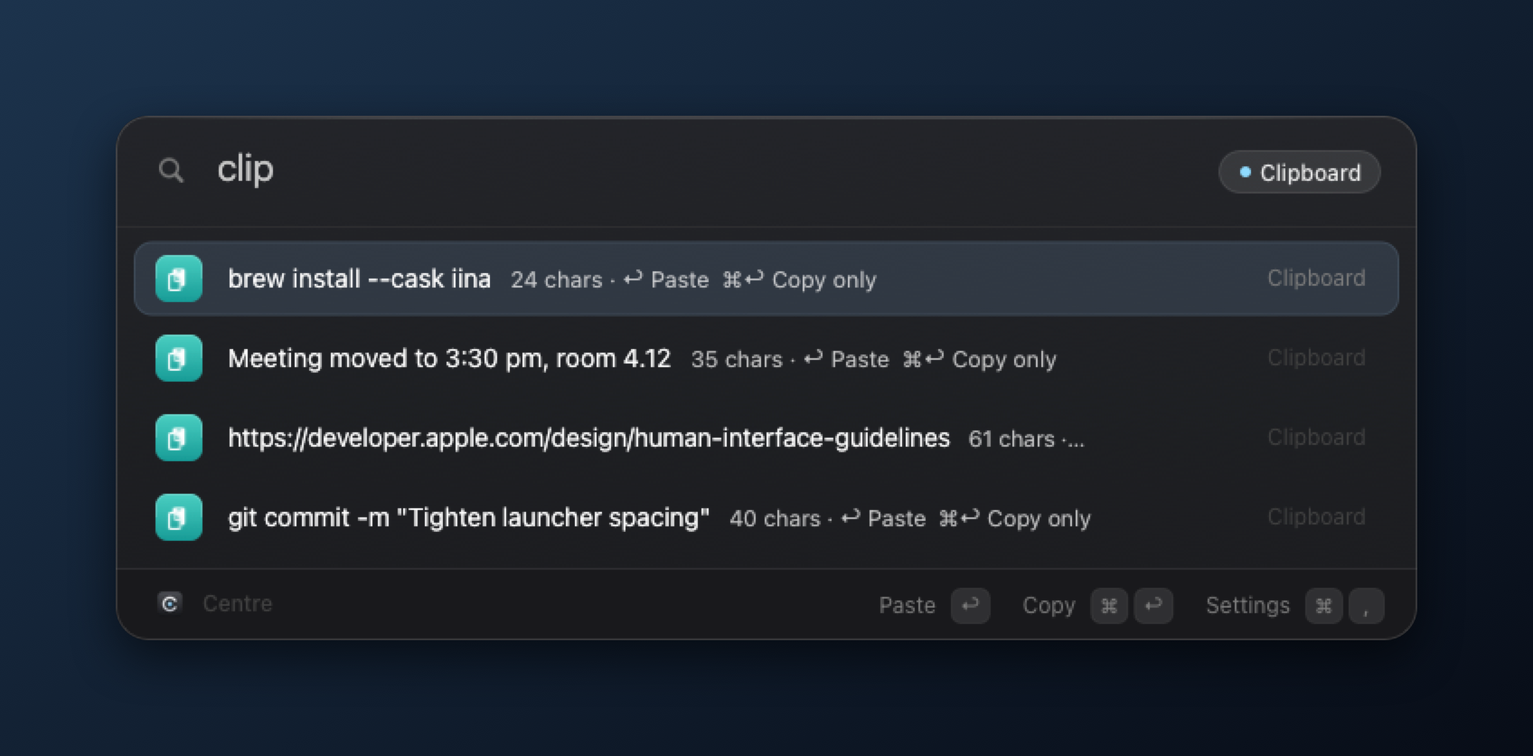
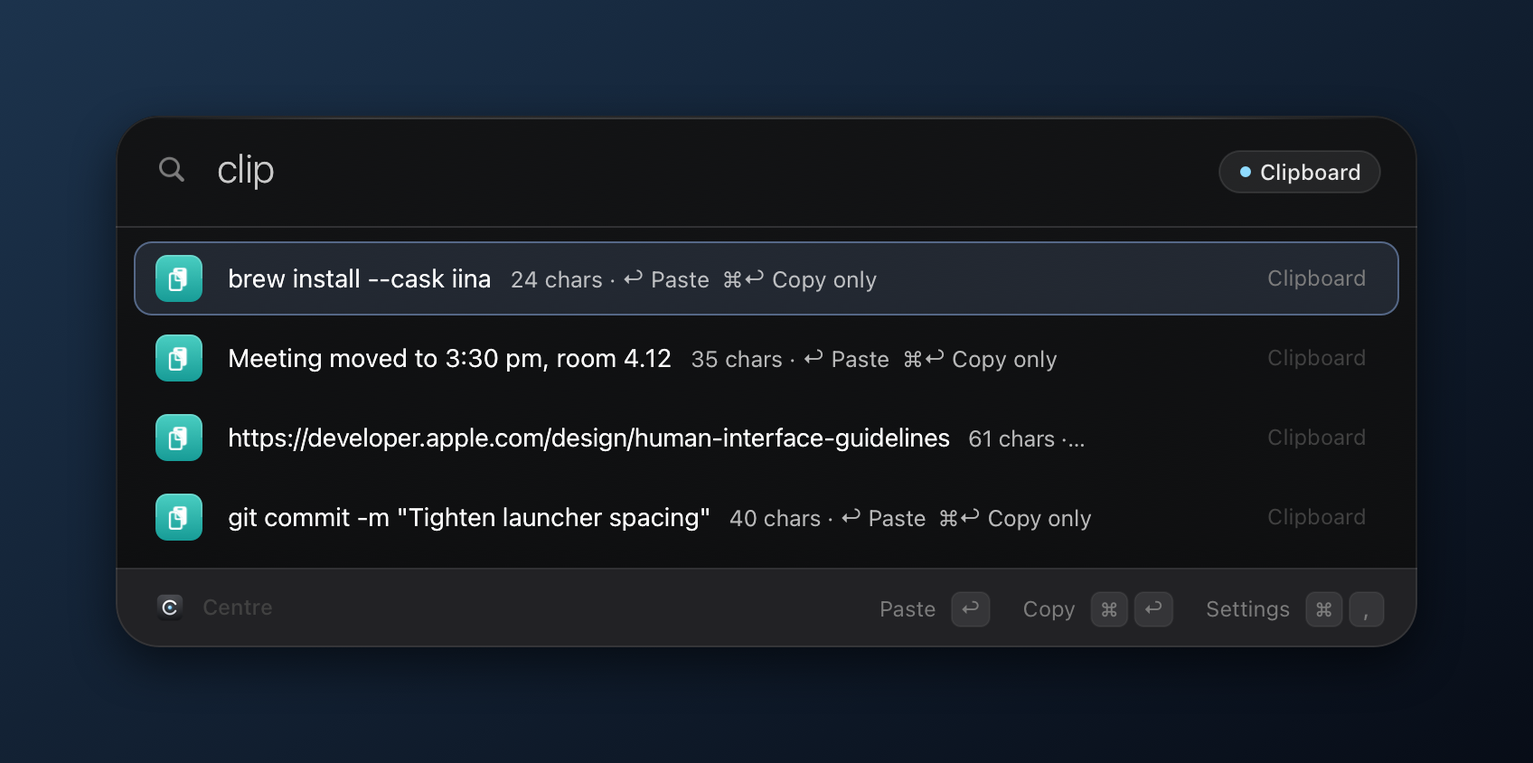
Build agent, fresh screenshots, shorter README
- Build agent: a LaunchAgent (the Centre binary in --agent mode) runs build, restart,
  test, shots, snap, status, log, crash and trace jobs from .agent/inbox
- Centre picks up builds made elsewhere once its panel is closed; one build at a time
- Lifecycle trace in .agent/trace.log
- Screenshot runs no longer collide with the running app or capture real context
- README rewritten and re-shot (dark only); temporary renders removed

Claude-Session: https://claude.ai/code/session_018D9cJFZXgMvcC43rK4RLZH

diff --git a/Sources/App.m b/Sources/App.m
@@ -392,9 +392,20 @@ static OSStatus hotKeyHandler(EventHandlerCallRef next, EventRef evt, void *ud) 
     return !b || [s compare:b] == NSOrderedDescending;   // a missing binary always counts as out of date
 }
 - (void)rebuild { [self rebuildQuietly:NO]; }
+// A build installed after this process started (by the agent, or by Terminal). It must have settled: the build
+// script signs the binary just after installing it, and holds its lock until then.
+- (BOOL)installedBuildIsNewer {
+    static NSDate *launched; static dispatch_once_t once;
+    NSString *bin = [NSBundle mainBundle].executablePath, *lock = [self.sourceDir stringByAppendingPathComponent:@".agent/build.lock"];
+    NSDate *now = [[[NSFileManager defaultManager] attributesOfItemAtPath:bin error:nil] fileModificationDate];
+    dispatch_once(&once, ^{ launched = now; });
+    if (!now || !launched || [now compare:launched] != NSOrderedDescending) return NO;
+    return -[now timeIntervalSinceNow] > 3 && ![[NSFileManager defaultManager] fileExistsAtPath:lock];
+}
 // Hand over to the fresh binary: a helper waits until this process has really exited, then opens the new build
 // (opening earlier would just wake the dying copy, or the new one would defer to it and quit).
 - (void)relaunch {
+    [self trace:@"relaunching into the new build"];
     self.relaunchPending = NO;
     [self saveClipHandoff];
     NSTask *t = [NSTask new]; t.launchPath = @"/bin/sh";
@@ -411,8 +422,11 @@ static OSStatus hotKeyHandler(EventHandlerCallRef next, EventRef evt, void *ud) 
     if (self.rebuilding || ![[NSFileManager defaultManager] fileExistsAtPath:[dir stringByAppendingPathComponent:@"centre"]]) return;
     self.rebuilding = YES;
     NSDate *src = [self sourceDate];
-    runShell([NSString stringWithFormat:@"cd %@ && chmod +x centre && CENTRE_NO_LAUNCH=1 ./centre build 2>&1", shellQuote(dir)], ^(NSString *out) {
-        if ([out containsString:@"Built "] && ![out containsString:@"error:"]) {
+    [self trace:@"rebuilding"];
+    runShell([NSString stringWithFormat:@"cd %@ && chmod +x centre && CENTRE_NO_LAUNCH=1 ./centre 2>&1", shellQuote(dir)], ^(NSString *out) {
+        NSString *lastLine = [[out stringByTrimmingCharactersInSet:[NSCharacterSet whitespaceAndNewlineCharacterSet]] componentsSeparatedByString:@"\n"].lastObject;
+        [self trace:[@"rebuild finished: " stringByAppendingString:lastLine ?: @""]];
+        if (([out containsString:@"Built "] && ![out containsString:@"error:"]) || [self installedBuildIsNewer]) {   // or the agent built it first
             if (self.panel.visible || self.settings.window.visible) { self.relaunchPending = YES; return; }   // finish when you're done
             [self relaunch];
             return;
@@ -448,8 +462,21 @@ static OSStatus hotKeyHandler(EventHandlerCallRef next, EventRef evt, void *ud) 
 }
 
 #pragma mark Lifecycle
+// Lifecycle trace for debugging (.agent/trace.log next to the app; the agent's "trace" job prints it).
+- (void)trace:(NSString *)what {
+    if (self.snapshotDir) return;
+    NSString *dir = [self.sourceDir stringByAppendingPathComponent:@".agent"], *p = [dir stringByAppendingPathComponent:@"trace.log"];
+    [[NSFileManager defaultManager] createDirectoryAtPath:dir withIntermediateDirectories:YES attributes:nil error:nil];
+    NSDateFormatter *f = [NSDateFormatter new]; f.dateFormat = @"MM-dd HH:mm:ss";
+    NSString *line = [NSString stringWithFormat:@"%@  pid %d  %@\n", [f stringFromDate:[NSDate date]], getpid(), what];
+    NSFileHandle *h = [NSFileHandle fileHandleForWritingAtPath:p];
+    if (!h) { [line writeToFile:p atomically:NO encoding:NSUTF8StringEncoding error:nil]; return; }
+    if ([h seekToEndOfFile] > 200000) { [h truncateFileAtOffset:0]; }
+    [h writeData:[line dataUsingEncoding:NSUTF8StringEncoding]]; [h closeFile];
+}
 - (void)applicationDidFinishLaunching:(NSNotification *)n {
     if (self.snapshotDir) { [self runSnapshots]; return; }
+    [self trace:[NSString stringWithFormat:@"launched (sources newer: %@)", [self sourceIsNewer] ? @"yes" : @"no"]];
     if ([self sourceIsNewer]) { [self rebuild]; return; }          // a failed build falls back to -startNormally
     [self startNormally];
 }
@@ -457,6 +484,8 @@ static OSStatus hotKeyHandler(EventHandlerCallRef next, EventRef evt, void *ud) 
 // with a Centre that has no panel, no shortcut and no file watcher.
 - (void)startNormally {
     if (self.panel) return;
+    [self installedBuildIsNewer];                 // remember which build this process is
+    [self trace:@"running"];
     [[NSDistributedNotificationCenter defaultCenter] addObserverForName:@"com.y.centre.show" object:nil queue:[NSOperationQueue mainQueue]
         usingBlock:^(NSNotification *note) { [self show]; }];
     [NSApp setActivationPolicy:NSApplicationActivationPolicyAccessory];
@@ -485,6 +514,7 @@ static OSStatus hotKeyHandler(EventHandlerCallRef next, EventRef evt, void *ud) 
     // Auto-rebuild: when anything in Sources/ changes, recompile and relaunch (only while the panel is hidden).
     [NSTimer scheduledTimerWithTimeInterval:4 repeats:YES block:^(NSTimer *t) {
         if (self.relaunchPending && !self.panel.visible && !self.settings.window.visible) { [self relaunch]; return; }
+        if (!self.rebuilding && !self.relaunchPending && [self installedBuildIsNewer]) { self.relaunchPending = YES; return; }   // the agent built it
         if (self.rebuilding || self.panel.visible || self.settings.window.visible || ![self sourceIsNewer]) return;
         NSDate *src = [self sourceDate];
         if (self.failedSource && src && [src isEqualToDate:self.failedSource]) return;   // same broken source: wait for the next save
@@ -502,6 +532,7 @@ static OSStatus hotKeyHandler(EventHandlerCallRef next, EventRef evt, void *ud) 
 }
 - (BOOL)applicationShouldHandleReopen:(NSApplication *)a hasVisibleWindows:(BOOL)f { [self show]; return NO; }
 - (void)applicationWillTerminate:(NSNotification *)n {
+    [self trace:self.rebuilding ? @"quitting for the new build" : @"quitting"];
     if (self.hotKeyRef) UnregisterEventHotKey(self.hotKeyRef);
     [self unregisterCommandHotKeys];
     [self.settings flushEdits];

diff --git a/Sources/main.m b/Sources/main.m
@@ -1,11 +1,66 @@
 // Centre — a lightweight native launcher for macOS. Builds with Command Line Tools only (./centre).
 #import "App.h"
 #include <signal.h>
+#include <spawn.h>
+#include <fcntl.h>
+#include <sys/wait.h>
+extern char **environ;
+
+// --agent <dir>: the build agent. launchd starts it whenever a job lands in <dir>/.agent/inbox; it runs each job
+// through ./centre (build, restart, test, shots, snap, status, log, crash, stop), writes <id>.log and <id>.exit to
+// .agent/out, and exits once the inbox is empty. Being the Centre binary, it works under Centre's own permissions.
+static int runAgent(NSString *dir) {
+    NSFileManager *fm = [NSFileManager defaultManager];
+    NSString *inbox = [dir stringByAppendingPathComponent:@".agent/inbox"], *outDir = [dir stringByAppendingPathComponent:@".agent/out"];
+    [fm createDirectoryAtPath:outDir withIntermediateDirectories:YES attributes:nil error:nil];
+    NSSet *allowed = [NSSet setWithArray:@[@"build", @"restart", @"stop", @"test", @"shots", @"snap", @"status", @"log", @"crash", @"trace"]];
+    setenv("PATH", "/usr/bin:/bin:/usr/sbin:/sbin:/usr/local/bin:/opt/homebrew/bin", 1);
+    setenv("CENTRE_AGENT", "1", 1);
+    for (int round = 0; round < 100; round++) {
+        NSArray *all = [fm contentsOfDirectoryAtPath:inbox error:nil] ?: @[];
+        NSArray *jobs = [[all filteredArrayUsingPredicate:[NSPredicate predicateWithFormat:@"self ENDSWITH '.job'"]] sortedArrayUsingSelector:@selector(compare:)];
+        if (!jobs.count) {   // launchd keeps relaunching while the inbox has anything in it, so leave it empty
+            for (NSString *f in all) [fm removeItemAtPath:[inbox stringByAppendingPathComponent:f] error:nil];
+            return 0;
+        }
+        for (NSString *name in jobs) {
+            NSString *path = [inbox stringByAppendingPathComponent:name], *jid = name.stringByDeletingPathExtension;
+            NSString *raw = [NSString stringWithContentsOfFile:path encoding:NSUTF8StringEncoding error:nil] ?: @"";
+            NSString *cmd = [raw stringByTrimmingCharactersInSet:[NSCharacterSet whitespaceAndNewlineCharacterSet]];
+            [fm removeItemAtPath:path error:nil];
+            NSString *log = [outDir stringByAppendingPathComponent:[jid stringByAppendingString:@".log"]];
+            int fd = open(log.fileSystemRepresentation, O_WRONLY | O_CREAT | O_TRUNC, 0644), code = 2;
+            if (fd < 0) continue;
+            if (![allowed containsObject:cmd]) dprintf(fd, "Unknown command: %s\n", cmd.UTF8String);
+            else {
+                posix_spawn_file_actions_t fa; posix_spawn_file_actions_init(&fa);
+                posix_spawn_file_actions_adddup2(&fa, fd, 1); posix_spawn_file_actions_adddup2(&fa, fd, 2);
+                char *argv[] = {"/bin/bash", "-c", "cd \"$1\" && exec /bin/bash ./centre \"$2\"", "agent",
+                                (char *)dir.fileSystemRepresentation, (char *)cmd.UTF8String, NULL};
+                pid_t pid = 0;
+                if (posix_spawn(&pid, "/bin/bash", &fa, NULL, argv, environ) == 0) {
+                    int st = 0, waited = 0;
+                    while (waitpid(pid, &st, WNOHANG) == 0) {
+                        if (++waited > 6000) { kill(pid, SIGKILL); waitpid(pid, &st, 0); dprintf(fd, "\nAgent: timed out after 10 minutes\n"); break; }
+                        usleep(100000);
+                    }
+                    code = waited > 6000 ? 124 : WIFEXITED(st) ? WEXITSTATUS(st) : 128 + WTERMSIG(st);
+                } else dprintf(fd, "Agent: could not start bash\n");
+                posix_spawn_file_actions_destroy(&fa);
+            }
+            close(fd);
+            [[NSString stringWithFormat:@"%d\n", code] writeToFile:[outDir stringByAppendingPathComponent:[jid stringByAppendingString:@".exit"]]
+                                                       atomically:YES encoding:NSUTF8StringEncoding error:nil];
+        }
+    }
+    return 0;
+}
 
 int main(int argc, const char *argv[]) {
     @autoreleasepool {
         // Build check: the build script runs every new binary with --selftest before installing it.
         if (argc > 1 && !strcmp(argv[1], "--selftest")) return runSelfTests();
+        if (argc > 2 && !strcmp(argv[1], "--agent")) return runAgent([NSString stringWithUTF8String:argv[2]]);
         // Single instance: if another Centre is already running, tell it to show and exit.
         NSString *snapDir = nil;
         BOOL readme = NO;
@@ -22,6 +77,9 @@ int main(int argc, const char *argv[]) {
             if (r.activationPolicy == NSApplicationActivationPolicyProhibited) continue;
             if (r.processIdentifier != me && !r.terminated && kill(r.processIdentifier, 0) == 0) {
                 [[NSDistributedNotificationCenter defaultCenter] postNotificationName:@"com.y.centre.show" object:nil userInfo:nil deliverImmediately:YES];
+                NSString *tp = [[[NSBundle mainBundle].bundlePath stringByDeletingLastPathComponent] stringByAppendingPathComponent:@".agent/trace.log"];
+                FILE *tf = fopen(tp.fileSystemRepresentation, "a");
+                if (tf) { fprintf(tf, "pid %d  deferred to the running Centre (pid %d)\n", me, r.processIdentifier); fclose(tf); }
                 return 0;
             }
         }

diff --git a/README.md b/README.md
@@ -1,175 +1,58 @@
 <p align="center">
-  <img src="docs/icon.png" width="128" height="128" alt="Centre app icon">
+  <img src="docs/icon.png" width="112" height="112" alt="Centre app icon">
 </p>
 
 <h1 align="center">Centre</h1>
 
 <p align="center">
-  A fast, native launcher for macOS. One keystroke from anything.<br>
-  <sub>Plain Objective-C · no Xcode · no dependencies · no telemetry</sub>
+  A native macOS launcher and taskbar. One keystroke from anything.<br>
+  <sub>Objective-C · AppKit · no Xcode · no dependencies · no telemetry</sub>
 </p>
 
 <p align="center">
-  <img src="https://img.shields.io/badge/macOS-11%2B-1d1f23?style=flat-square&logo=apple&logoColor=white" alt="macOS 11+">
-  <img src="https://img.shields.io/badge/AppKit-Objective--C-5ab8f5?style=flat-square" alt="AppKit, Objective-C">
-  <img src="https://img.shields.io/badge/build-clang%20only-2b2d31?style=flat-square" alt="Builds with clang only">
+  <img src="docs/home-dark.png" width="760" alt="Centre's home: now playing, most used apps, quick actions, clipboard and recent files">
 </p>
 
-<p align="center">
-  <img src="docs/home-dark.png" width="780" alt="Centre's home screen: now playing, most used apps, pinned actions and clipboard">
-</p>
+## What it does
 
-## Highlights
-
-- **One search for everything.** Apps, System Settings panes, commands, quick links and files (via Spotlight), ranked by how often you use them.
-- **A home screen that knows what you were doing.** Select text anywhere and Home offers to search, define, translate or transform it. Open Centre from a browser and it lists that window's other tabs and can copy the page as a link, a Markdown link or a clean URL; from a terminal it offers your last commands; from Finder it opens Terminal there or copies paths. Below that: now playing, the apps you usually open at this hour, your pins, clipboard, recent files and commands.
-- **A quiet status line.** Under the search field: the time, your next event, a running timer, battery and network.
-- **Notes and tabs.** `note call the bank` keeps a line on Home until you tick it off. `tab` searches every open tab in Brave, Chrome, Arc, Edge, Vivaldi, Helium and Safari and jumps straight to it.
-- **Glance, shelf and sessions.** Hold `⌘ Space` for a glance (time, next event, music, battery, last copy) that disappears when you let go. Drag anything onto the drop zone at the top of the screen and it waits on Home's shelf. `save session Study` remembers which apps are open and where; typing `Study` puts it all back. Rest on a file or clipboard entry to preview it beside the panel.
-- **A taskbar, too.** An optional floating bar along the bottom: pinned and running apps with live indicators, window lists, now playing, volume, Wi-Fi, battery and a clock. It can hide the macOS Dock while it's on, and gives your Dock back exactly as it was.
-- **Yours to shape.** Pin anything to Home with `⇧⌘P`. Write your own shell or AppleScript commands, chain commands into flows, save snippets, and give any of them a global shortcut.
-- **Tools built in.** Calculator and unit conversions, offline dictionary, timers, volume, Keep Awake, password / passphrase / PIN generator, clipboard history, window snapping (halves, thirds, next display), quit and force-quit.
-- **Keyboard first.** Arrow keys everywhere, `⌘1`–`⌘9` to jump, `⌘↩` for the alternate action, `Tab` to complete.
-- **Native and light.** AppKit with an obsidian glass look: deep, matte and translucent, with one ice-blue focus ring so you always know what `↩` will do. The player takes its accent from the album art, and its × hides it until the next song plays. Every build checks itself before it replaces the running app.
+- **Search** apps, settings, commands, files, open browser tabs and clipboard history, ranked by what you use at this hour.
+- **Home** adapts to where you came from: a browser's other tabs, a terminal's last commands, actions for selected text.
+- **Status line, notes and shelf:** time, next event, battery; `note …` keeps a line on Home; drop files onto the shelf.
+- **Tools:** calculator, units, dictionary, timers, passwords, text transforms, time zones, emoji, window snapping.
+- **Taskbar (optional):** one button per window, music controls, tray and clock; keeps windows clear of the bar.
 
 <table>
   <tr>
-    <td width="50%"><img src="docs/deck.png" alt="Home opened from Safari: status line, a note and the window's other tabs"></td>
-    <td width="50%"><img src="docs/tabs.png" alt="Searching open browser tabs"></td>
+    <td width="50%"><img src="docs/deck.png" alt="Home opened from Safari"></td>
+    <td width="50%"><img src="docs/tabs.png" alt="Tab search"></td>
   </tr>
   <tr>
-    <td align="center"><sub>Opened from Safari: the status line, a note and that window's other tabs</sub></td>
-    <td align="center"><sub><code>tab guide</code> finds any open tab and jumps to it</sub></td>
-  </tr>
-  <tr>
-    <td width="50%"><img src="docs/commands.png" alt="Window commands with coloured tiles"></td>
-    <td width="50%"><img src="docs/passwords.png" alt="Password generator"></td>
-  </tr>
-  <tr>
-    <td align="center"><sub>Commands get System Settings–style tiles</sub></td>
-    <td align="center"><sub><code>pw 24</code> gives strong, symbol-free, passphrase and PIN options</sub></td>
-  </tr>
-  <tr>
-    <td width="50%"><img src="docs/home-selection.png" alt="Home offering actions for selected text"></td>
-    <td width="50%"><img src="docs/transform.png" alt="Text transforms applied to the selection"></td>
-  </tr>
-  <tr>
-    <td align="center"><sub>Select text anywhere, open Centre: search, translate or transform it</sub></td>
-    <td align="center"><sub><code>tx</code> previews every transform before it replaces the selection</sub></td>
+    <td align="center"><sub>Opened from Safari: status line, a note, that window's tabs</sub></td>
+    <td align="center"><sub><code>tab guide</code> jumps to any open tab</sub></td>
   </tr>
 </table>
-
-## Taskbar
 
 <p align="center">
-  <img src="docs/taskbar-dark.png" width="900" alt="Centre's floating taskbar: launcher, apps with running indicators, now playing, volume, Wi-Fi, battery and clock">
+  <img src="docs/taskbar-dark.png" width="900" alt="Centre's taskbar">
 </p>
 
-A floating bar in the spirit of KDE Plasma's panel, on every Space, hidden while anything is full screen.
+## Keys and prefixes
 
-- **Apps:** pinned apps, then anything else running, with one button per window if you like (minimised and private windows included). A short line marks a running app; the one in front is lit. Click to bring an app or window forward, again to hide it; an app with no windows opens a new one. Drag pinned apps to reorder; right-click for its windows, Hide, Pin, Quit and Force Quit (Finder offers Relaunch instead).
-- **Windows:** windows are kept just above the bar instead of sliding under it, even after zooming. Optional quick minimise makes windows vanish instantly instead of animating into the Dock.
-- **Tray:** now playing with previous, play and next, a scrolling title and a player popover (any app macOS reports as playing, plus YouTube Music); a mirror of your menu bar icons (off by default); volume (scroll to change, click to mute), Wi-Fi, battery, and a clock that opens a calendar. Right-click any of them for its System Settings page.
-- **Show desktop:** hides every app; click again to bring back exactly those windows.
-- **Settings › Taskbar:** bottom or top, three sizes, floating or edge to edge, auto-hide, app names, 24-hour time, each tray item, and what the Dock does while the bar is on (stays, auto-hides, or is turned off; your own Dock settings come back when the bar is off or Centre quits). Window snapping leaves the bar uncovered.
-
-## Keys
-
-| Key | Action |
+| Input | Does |
 | --- | --- |
-| `⌘ Space` | Open or close Centre |
-| `↩` | Run the selected item |
-| `Esc` | Clear the search, then close |
-| `⌘ ↩` | Alternate action: reveal in Finder, copy only, force quit |
-| `⌘ 1` … `⌘ 9` | Run an item by position (hold `⌘` to see the numbers) |
-| `⌘ P` · `⌘ [` · `⌘ ]` | Play / pause · previous · next |
-| `⇧ ⌘ P` | Pin or unpin the selection on Home |
-| `⌘ ,` | Settings |
-| `Tab` | Complete an app name or a path |
+| `⌘ Space` · hold it | Open Centre · quick glance |
+| `⌘ ↩` · `⌘ 1–9` · `⇧ ⌘ P` | Alternate action · run by position · pin to Home |
+| `note …` · `tab …` · `clip` · `f …` | Note · browser tab · clipboard · files |
+| `> cmd` · `pw 24` · `5 km to mi` · `timer 10m` | Shell · password · units · timer |
+| `save session Study` · `Study` | Save and restore window layouts |
 
-## Prefixes
+## Build
 
-| Type | What it does |
-| --- | --- |
-| `clip` · `v ` | Search clipboard history |
-| `f report` · `find report` | Search files |
-| `note call the bank` · `notes` | Keep a line on Home, or see them all |
-| `tab guide` · `tabs` | Search open browser tabs and jump to one |
-| `save session Study` · `Study` | Save the open apps and window positions; type the name to restore |
-| `/documents` · `~/doc/rep` | Open folders and files by path, any case; `Tab` completes like a shell |
-| `pw 32` | Generate passwords of a given length |
-| `quit` · `kill` | Quit or force-quit running apps |
-| `> command` | Run in Terminal (`⌘↩` runs silently and copies the output) |
-| `yt lofi` | Keyword web search: `g`, `yt`, `gh`, `wiki`, `x`, `amz`, or your own |
-| `128*0.15+12` | Calculate and copy the answer |
-| `5 km to mi` · `100 f to c` | Convert length, mass, volume, time, data, speed and temperature |
-| `define serendipity` | Look a word up in the macOS dictionary (works offline) |
-| `timer 10m tea` · `timers` | Start a timer (`90s`, `1h30m`, `25`) or see and cancel running ones |
-| `vol 40` | Set the output volume |
-| `w safari` | Switch to any open window by its title |
-| `tx` · `upper` | Transform the selection or clipboard: case, JSON, Base64, URL encoding, clean URLs, line tools |
-| `snip` · your keyword | Paste a snippet; `{date}`, `{time}`, `{clipboard}` and more are filled in |
-| `time in tokyo` · `3pm melbourne in london` | Time zones, offline |
-| `:heart` | Paste any emoji by name |
-| `port 3000` | See what's listening and stop it |
-| `info` | Battery, IP addresses, disk, memory, uptime |
+Needs only the Command Line Tools (`xcode-select --install`). Run `./centre`, or double-click **Rebuild Centre.command**. Centre rebuilds itself when `Sources/` changes, and only installs a build that passes its self-test (66 checks). Settings live in `~/Library/Application Support/Centre/config.json`.
 
-## Build and run
+Turn off Spotlight's `⌘ Space` first, or pick another shortcut in Settings.
 
-Needs only the Xcode Command Line Tools (`xcode-select --install`).
+## Credits
 
-```sh
-./centre          # build if Sources/ changed, then launch
-./centre build    # force a rebuild
-./centre stop     # quit
-```
-
-Or double-click **Rebuild Centre.command**. While Centre is running, saving any file in `Sources/` rebuilds and relaunches it automatically.
-
-Each new build runs `Centre --selftest` (66 checks: calculator, units, durations, paths, transforms, time zones, snippets, hotkeys, emoji) and only replaces the app if every check passes; otherwise the working version stays and the reason is in `build.log`.
-
-| File | Contains |
-| --- | --- |
-| `Centre.h` · `Util.m` · `Theme.m` | Model, shared helpers, design tokens and the HUD |
-| `Views.h` · `Views.m` | Panel, rows, grid, home lists and the media player |
-| `App.m` · `App+*.m` | The app: Search, Home, UI, Media, Tools, Library (pins, your commands, flows, snippets, shortcuts), Context (selection, app actions, windows), Deck (tabs, notes, status line), Glance (peek, shelf, sessions, preview) and Snapshots |
-| `Logic.m` | Pure logic for transforms, time zones, snippets, hotkeys and emoji — covered by the self-test |
-| `Taskbar.m` | The taskbar: layout, drawing, tray, Dock handling and auto-hide |
-| `Settings.m` | The settings window |
-| `SelfTest.m` · `main.m` | Build checks and the entry point |
-
-> [!NOTE]
-> Centre uses `⌘ Space` by default. Turn off Spotlight's shortcut first (System Settings › Keyboard › Keyboard Shortcuts › Spotlight), or choose another hotkey in Centre's settings.
-
-## Settings and permissions
-
-Everything is set in a native settings window (`⌘ ,`) and stored in `~/Library/Application Support/Centre/config.json`. Home, Taskbar, Commands, Snippets and Shortcuts each have their own page: reorder pins, set up the taskbar, write and test commands, edit snippets and record shortcuts there. If `config.json` ever has a typo, Centre keeps your last good settings and saves a copy as `config.json.broken`.
-
-<table>
-  <tr>
-    <td width="50%"><img src="docs/settings-commands.png" alt="Settings: your own commands and flows"></td>
-    <td width="50%"><img src="docs/settings-taskbar.png" alt="Settings: taskbar options and Dock control"></td>
-  </tr>
-  <tr>
-    <td align="center"><sub>Your commands: shell, AppleScript or a flow of steps</sub></td>
-    <td align="center"><sub>Taskbar options, including what the Dock does</sub></td>
-  </tr>
-</table>
-
-**Settings › Permissions** shows what Centre can access and fixes what's missing. Its *Stable signature* step (`setup-signing.sh`) creates a private code-signing certificate on your Mac, so rebuilds keep their permissions instead of macOS asking again after every build.
-
-| Permission | Used for |
-| --- | --- |
-| Accessibility | Window snapping, the window switcher, pasting snippets and clipboard items, reading selected text, taskbar window lists |
-| Automation | System commands (sleep, dark mode, empty trash), reading and switching browser tabs, and YouTube Music control |
-| Calendar | Your next event in the status line and the glance (optional) |
-| Documents | Recent files on the home screen |
-
-## Privacy
-
-No accounts and no analytics. Clipboard history lives in memory only (when Centre rebuilds itself it's handed to the new process through a private file that is deleted straight away) and skips items that password managers mark as concealed. Generated passwords are marked concealed too, and are cleared from the clipboard after 90 seconds. Notes, the shelf and window sessions stay on your Mac in Centre's own folder.
-
-<br>
-
-
-<p align="center"><sub>Screenshots are rendered by the app itself: <code>Centre.app/Contents/MacOS/Centre --readme docs</code></sub></p>
+Built by [Yyas99](https://github.com/Yyas99) with [Claude](https://claude.ai) (Anthropic).
+<br><sub>Screenshots are rendered by the app: <code>./centre shots</code></sub>
